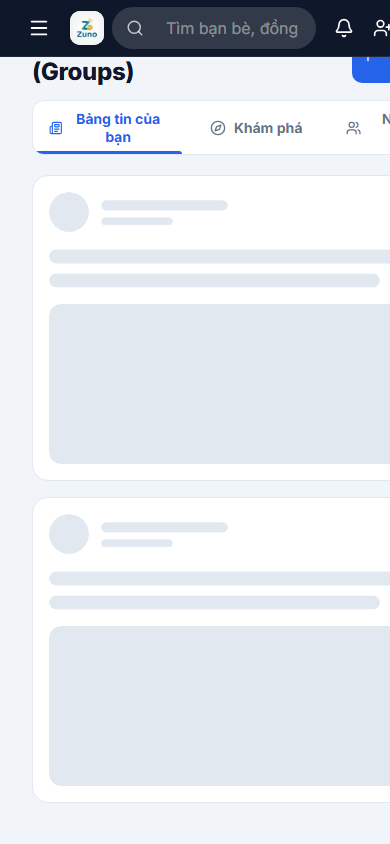
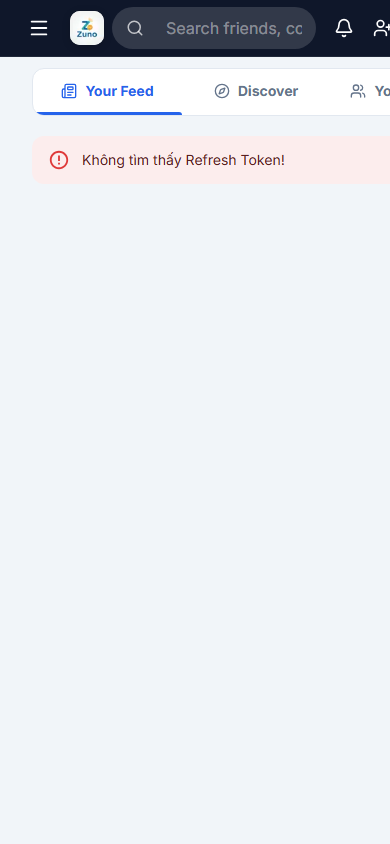
style(groups): replace saturated purple buttons and badge with clean neutral action styles

Changed region(s): [[0.0615, 0.0616, 0.7692, 0.2156], [0.4308, 0.0, 0.7692, 0.0616], [0.8923, 0.0616, 1.0, 0.1848]]

diff --git a/frontend/src/components/groups/MyGroupsTab.tsx b/frontend/src/components/groups/MyGroupsTab.tsx
@@ -165,7 +165,8 @@ export default function MyGroupsTab({
                 <Box sx={{ display: "flex", gap: 1, mt: "auto", pt: 1 }}>
                   <Button
                     fullWidth
-                    variant="outlined"
+                    variant="contained"
+                    color="primary"
                     size="small"
                     component={NextLink}
                     href={`/groups/${group.slug}`}
@@ -176,13 +177,25 @@ export default function MyGroupsTab({
 
                   {isAdmin && (
                     <Button
-                      variant="contained"
-                      color="secondary"
+                      variant="outlined"
+                      color="inherit"
                       size="small"
                       startIcon={<Settings size={14} />}
                       component={NextLink}
                       href={`/groups/${group.slug}/manage`}
-                      sx={{ borderRadius: "10px", fontWeight: 700, textTransform: "none", flexShrink: 0 }}
+                      sx={{
+                        borderRadius: "10px",
+                        fontWeight: 700,
+                        textTransform: "none",
+                        flexShrink: 0,
+                        borderColor: "divider",
+                        color: "text.primary",
+                        bgcolor: "action.hover",
+                        "&:hover": {
+                          bgcolor: "action.selected",
+                          borderColor: "divider",
+                        },
+                      }}
                     >
                       {t("groups.manageGroup")}
                     </Button>

diff --git a/frontend/src/components/groups/detail/GroupHeader.tsx b/frontend/src/components/groups/detail/GroupHeader.tsx
@@ -219,11 +219,21 @@ export default function GroupHeader({
 
             {canManage && (
               <Button
-                variant="contained"
-                color="secondary"
+                variant="outlined"
+                color="inherit"
                 startIcon={<Settings size={16} />}
                 onClick={onManage}
-                sx={{ borderRadius: "10px", fontWeight: 700 }}
+                sx={{
+                  borderRadius: "10px",
+                  fontWeight: 700,
+                  borderColor: "divider",
+                  color: "text.primary",
+                  bgcolor: "action.hover",
+                  "&:hover": {
+                    bgcolor: "action.selected",
+                    borderColor: "divider",
+                  },
+                }}
               >
                 {t("groups.manageGroup")}
               </Button>

diff --git a/frontend/src/components/groups/MemberRow.tsx b/frontend/src/components/groups/MemberRow.tsx
@@ -83,7 +83,7 @@ export default function MemberRow({ member: m, viewerPermissions, onOpenMenu }: 
                 size="small"
                 icon={<ShieldCheck size={12} />}
                 label={t("groups.deputyBadge")}
-                color="secondary"
+                color="info"
                 variant="outlined"
                 sx={{ height: 22, fontSize: "0.75rem", fontWeight: 700 }}
               />
